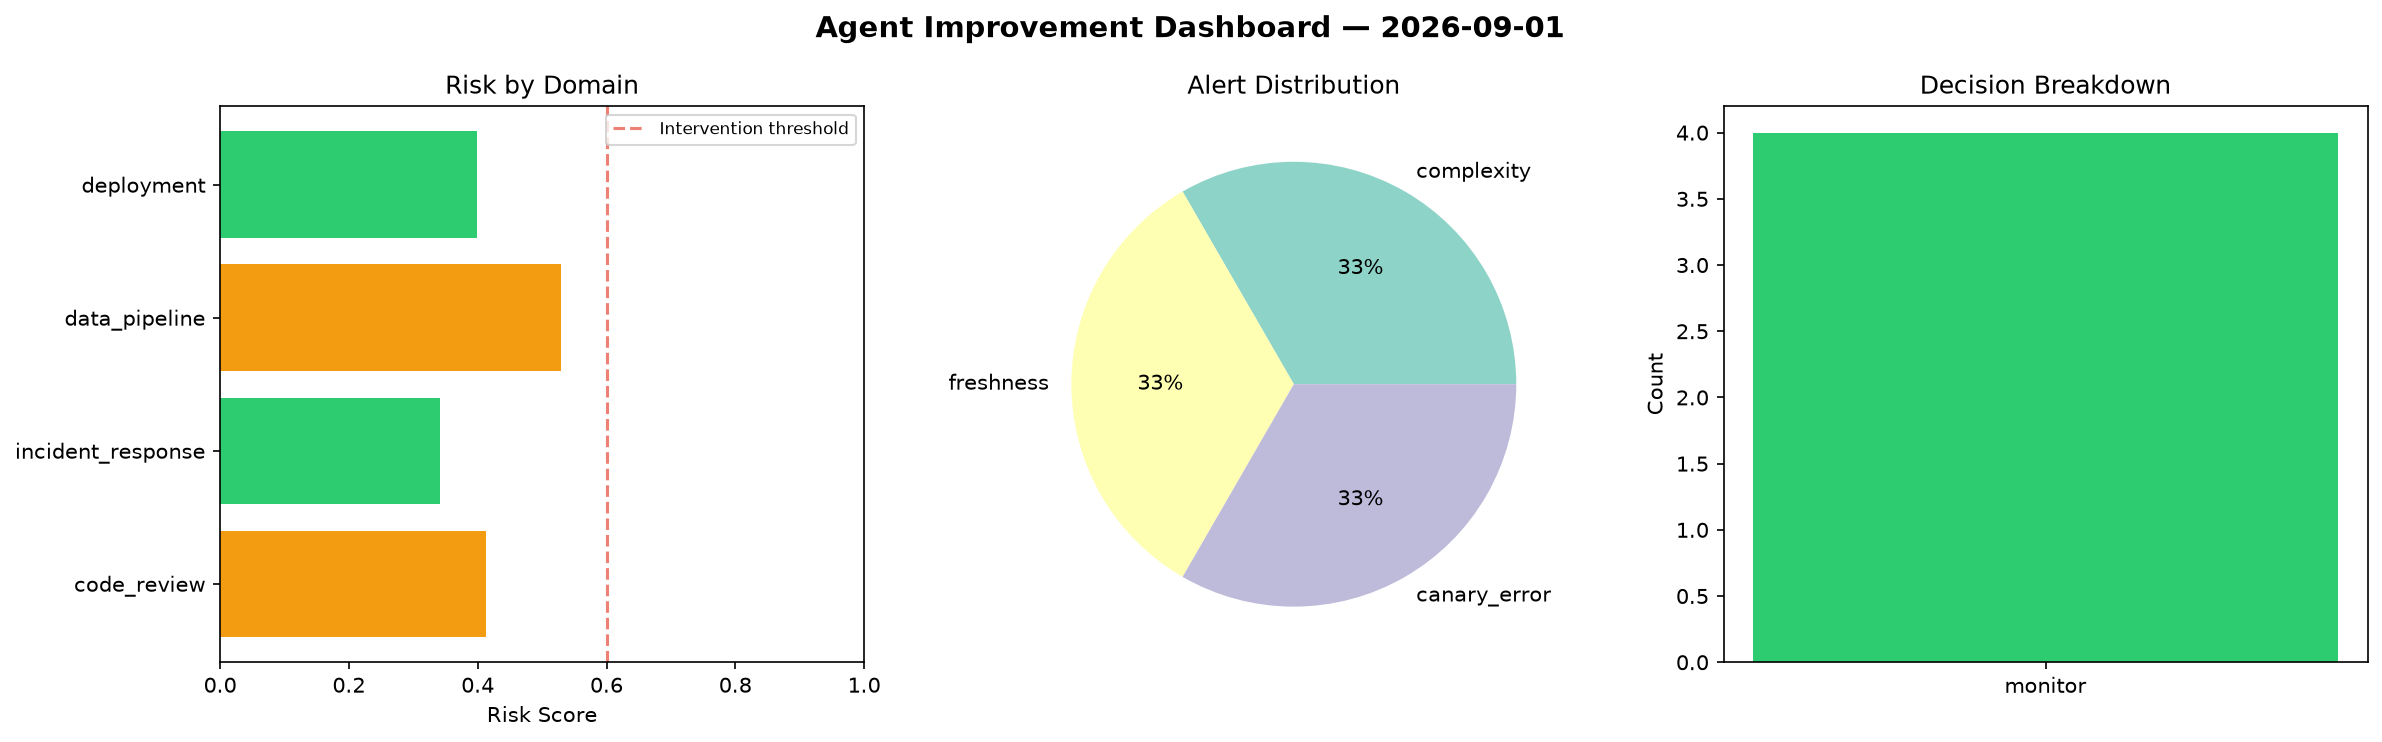
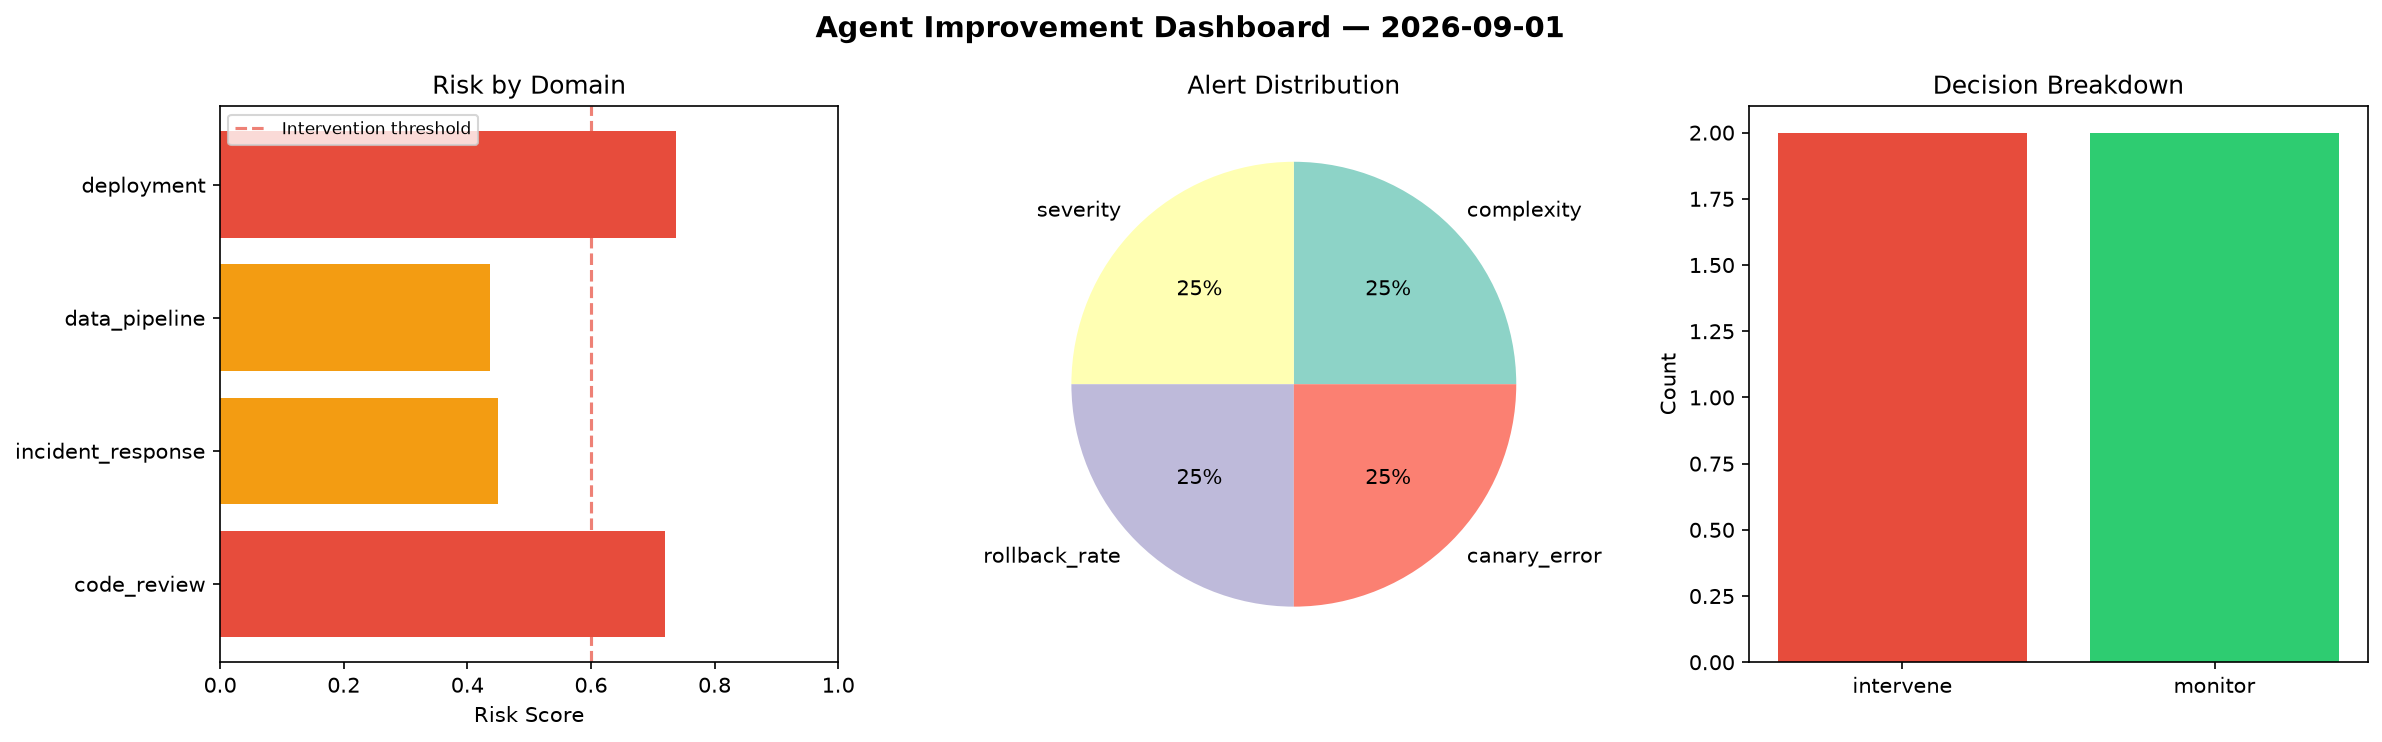
agent-improvement: daily cycle 2026-09-01T22:35

diff --git a/logs/2026-09-01.md b/logs/2026-09-01.md
@@ -1,6 +1,6 @@
 # Agent Improvement Report — 2026-09-01
 
-**Cycle ID:** `f3418abe` | **Avg Risk:** 0.4208 | **Interventions:** 0/4
+**Cycle ID:** `06c392a6` | **Avg Risk:** 0.5861 | **Interventions:** 2/4
 
 ![Dashboard](2026-09-01_dashboard.png)
 
@@ -10,18 +10,18 @@
 
 | Domain | Risk Score | Decision | Alerts |
 |--------|-----------|----------|--------|
-| code_review | 0.4133 | monitor | complexity |
-| incident_response | 0.3415 | monitor | none |
-| data_pipeline | 0.5289 | monitor | freshness |
-| deployment | 0.3994 | monitor | canary_error |
+| code_review | 0.7192 | intervene | complexity |
+| incident_response | 0.4499 | monitor | severity |
+| data_pipeline | 0.4372 | monitor | none |
+| deployment | 0.7383 | intervene | rollback_rate, canary_error |
 
 ## Delta vs Yesterday
 
 | Domain | Today | Yesterday | Change |
 |--------|-------|-----------|--------|
-| code_review | 0.4133 | 0.4803 | 📉 -13.9% |
-| incident_response | 0.3415 | 0.4637 | 📉 -26.4% |
-| data_pipeline | 0.5289 | 0.3038 | 📈 74.1% |
-| deployment | 0.3994 | 0.6746 | 📉 -40.8% |
+| code_review | 0.7192 | 0.4803 | 📈 49.7% |
+| incident_response | 0.4499 | 0.4637 | 📉 -3.0% |
+| data_pipeline | 0.4372 | 0.3038 | 📈 43.9% |
+| deployment | 0.7383 | 0.6746 | 📈 9.4% |
 
-**Refinement:** `{'adjustment': 'maintain', 'trend': 'improving', 'window': 4}`
+**Refinement:** `{'adjustment': 'tighten_thresholds', 'trend': 'degrading', 'window': 4}`
